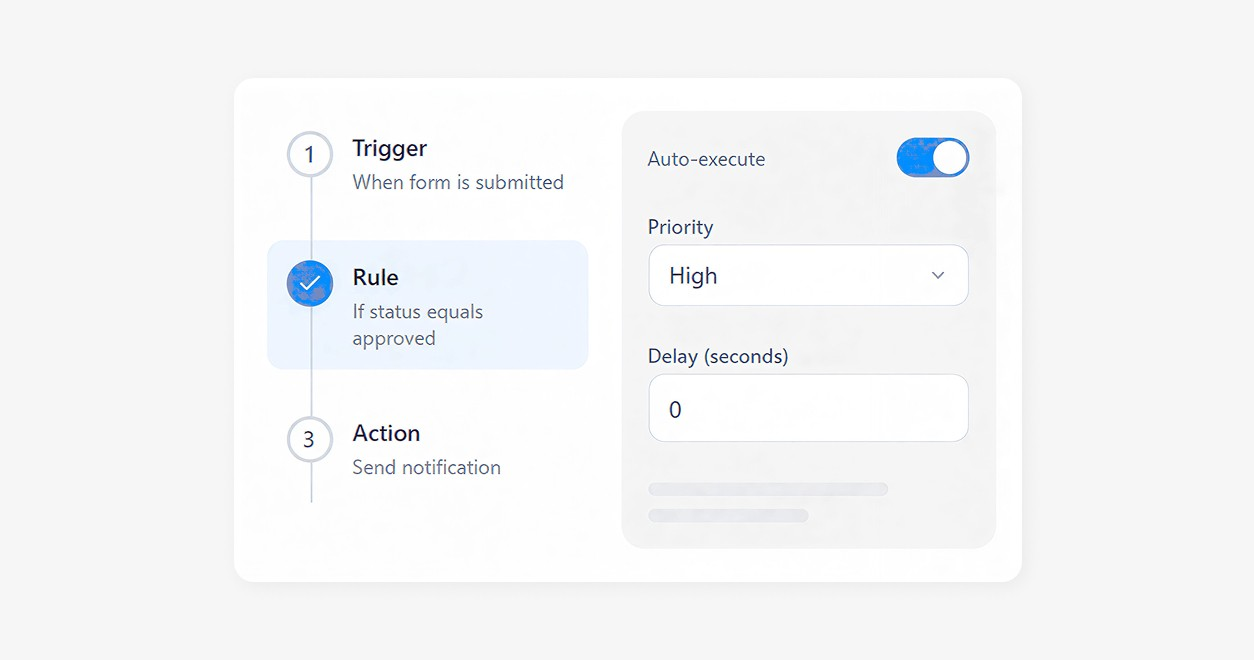
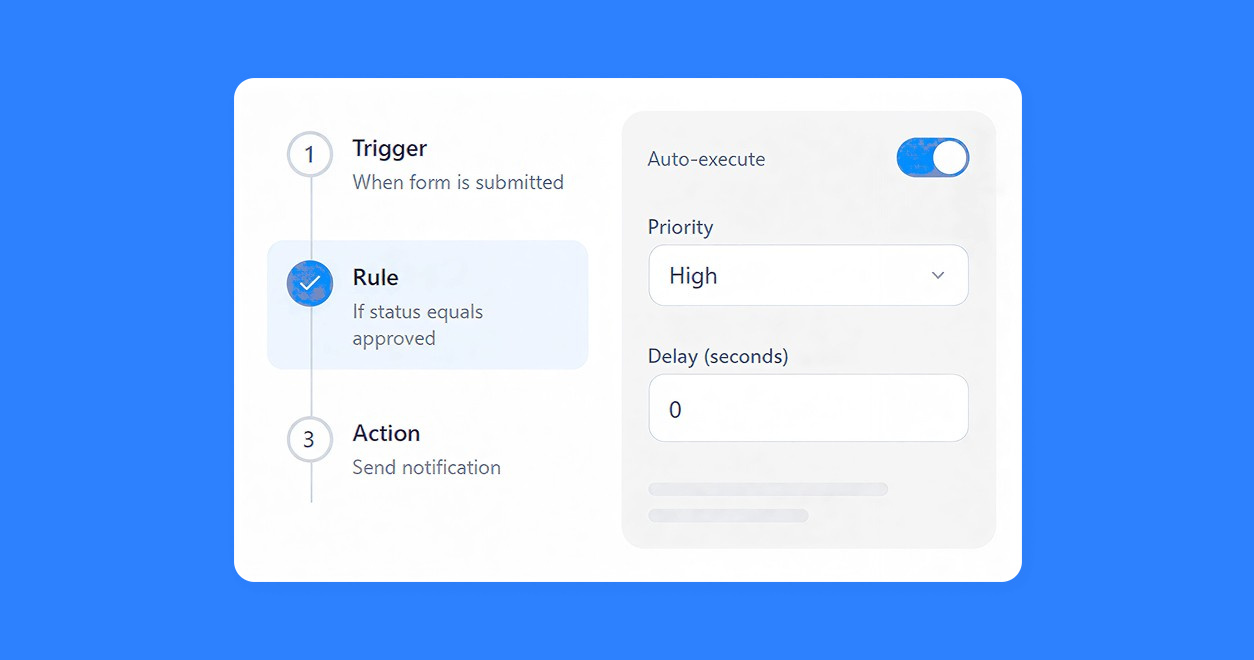
Put the Solutions card images on brand blue
The six Solutions card images sat on a flat grey (#f6f6f6) that matched the
frame. Their backdrop is now brand blue (#2d81ff), and the frame's background
matches, so the object-contain letterbox stays invisible.

The mockups themselves are unchanged. Only the grey backdrop was repainted:
each white card or tile was fitted as a rounded rectangle, with edges and
corner radius measured to sub-pixel precision, and composited back with an
anti-aliased edge. A plain colour threshold left ragged edges because the
cards are only ~7 levels brighter than the grey. Drop shadows carry over as
darker blue.

diff --git a/frontend/components/marketing/landing/solutions-section.tsx b/frontend/components/marketing/landing/solutions-section.tsx
@@ -44,7 +44,8 @@ export function SolutionsSection() {
                   key={card.title}
                   className="flex flex-col rounded-[15px] bg-white p-[15px] shadow-[2px_2px_10px_rgba(0,0,0,0.03)]"
                 >
-                  <div className="relative h-[300px] overflow-hidden rounded-[7px] bg-lp-gray-50 tablet:h-[360px] desktop:h-[330px]">
+                  {/* The shots are painted on brand blue; matching it keeps the object-contain letterbox invisible. */}
+                  <div className="relative h-[300px] overflow-hidden rounded-[7px] bg-[#2d81ff] tablet:h-[360px] desktop:h-[330px]">
                     <Image
                       src={card.image}
                       alt=""
